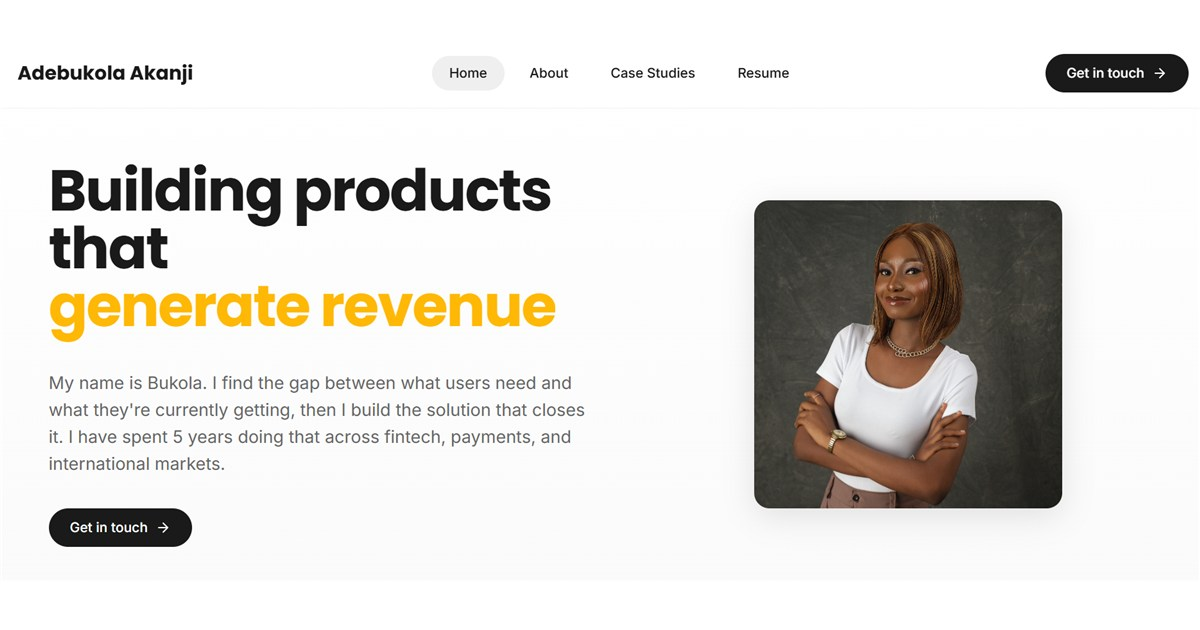
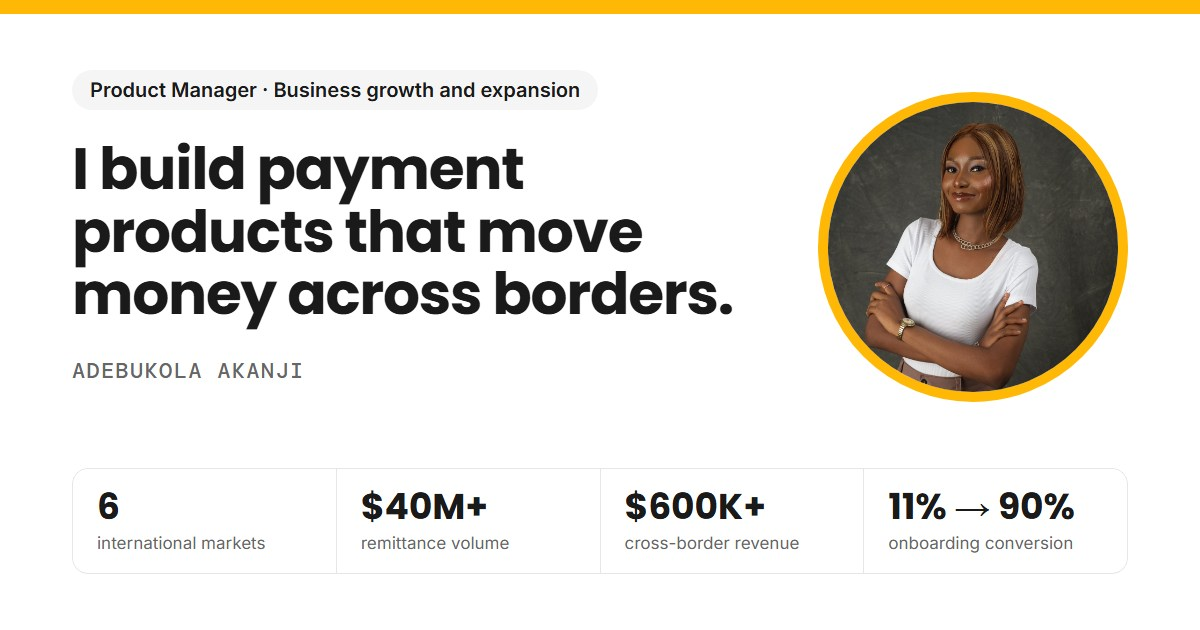
Update hero tagline and OG thumbnail

diff --git a/src/pages/Home.tsx b/src/pages/Home.tsx
@@ -22,7 +22,7 @@ const Home = () => (
       <section className="mx-auto flex max-w-[1120px] flex-col gap-8 px-5 pb-10 pt-12 sm:px-6 md:flex-row md:items-center md:gap-12 md:pb-16 md:pt-20">
         <div className="min-w-0 md:flex-1">
           <p className="mb-5 inline-flex items-center rounded-full bg-muted px-2.5 py-0.5 text-xs font-semibold leading-[1.6] text-foreground">
-            Product Manager · Cross-border payments
+            Product Manager · Business growth and expansion
           </p>
           <h1 className="m-0 max-w-[860px] text-[34px] leading-[1.05] tracking-[-0.02em] text-foreground md:text-[clamp(40px,5vw,60px)]">
             I build payment products that move money across borders.
